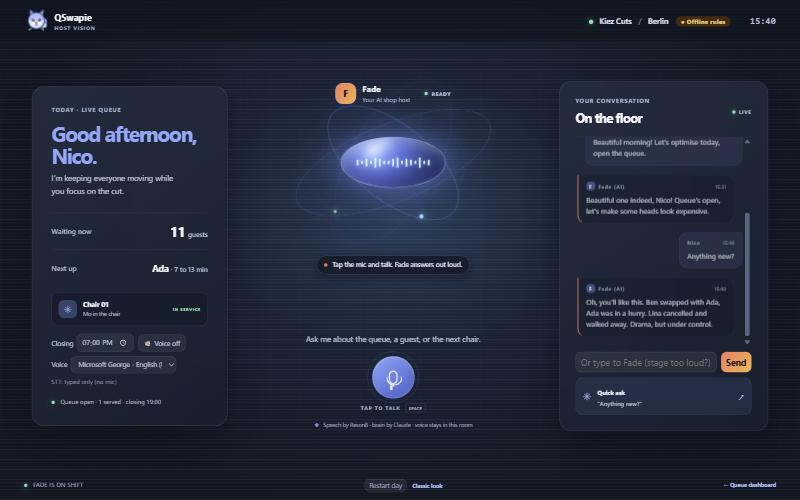
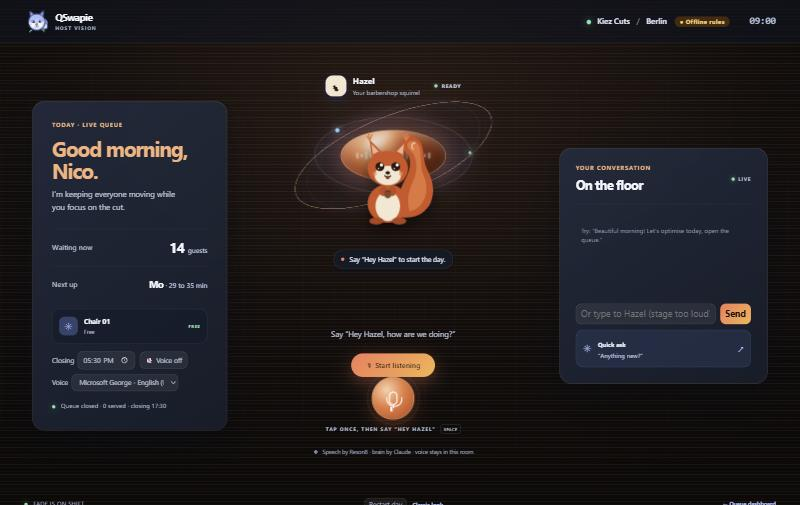
Hazel the squirrel: original SVG on the orb, animated per voice state (breathe, tail swish, head tilt, hop and talk), warm orange/cream palette, reduced-motion support

diff --git a/public/skin/barber.html b/public/skin/barber.html
@@ -8,6 +8,7 @@
   <!-- Stage skin designed with Codex (barber.css, mascot.svg); warm.css adds the warm accent and app controls. -->
   <link rel="stylesheet" href="/skin/barber.css">
   <link rel="stylesheet" href="/skin/warm.css">
+  <link rel="stylesheet" href="/skin/squirrel.css">
 </head>
 <body class="voice-page">
   <div class="voice-app">
@@ -38,12 +39,44 @@
       </aside>
 
       <section class="voice-center" aria-label="Voice conversation with Hazel">
-        <div class="assistant-id"><span class="assistant-avatar">H</span><div><strong>Hazel</strong><small>Your barbershop squirrel</small></div><span class="availability"><i></i> <span id="avail">READY</span></span></div>
+        <div class="assistant-id"><span class="assistant-avatar">🐿</span><div><strong>Hazel</strong><small>Your barbershop squirrel</small></div><span class="availability"><i></i> <span id="avail">READY</span></span></div>
         <div class="core-wrap">
           <div class="voice-core is-idle" id="voiceCore" role="img" aria-label="Hazel is ready to listen">
             <div class="core-grid"></div>
             <div class="core-ring ring-one"></div><div class="core-ring ring-two"></div><div class="core-ring ring-three"></div>
             <div class="core-halo"></div><div class="core-orb"><span class="core-glint"></span></div>
+            <div class="hazel" aria-hidden="true">
+              <!-- Hazel: original squirrel drawing for this project -->
+              <svg viewBox="0 0 200 220" xmlns="http://www.w3.org/2000/svg">
+                <g class="sq-all">
+                  <g class="sq-tail">
+                    <path d="M120 200 C 190 205, 205 140, 180 95 C 162 62, 178 30, 150 18 C 124 8, 108 34, 128 50 C 146 64, 140 92, 128 112 C 112 140, 104 178, 120 200 Z" fill="#d9541e"/>
+                    <path d="M150 26 C 134 22, 126 36, 138 46 C 156 60, 158 92, 146 116 C 136 136, 130 162, 138 186 C 170 180, 186 140, 170 104 C 156 74, 172 40, 150 26 Z" fill="#ef7a3c" opacity=".85"/>
+                    <path d="M150 30 C 142 30, 140 38, 146 44" fill="none" stroke="#f6e7cf" stroke-width="3" stroke-linecap="round" opacity=".7"/>
+                  </g>
+                  <ellipse cx="88" cy="168" rx="46" ry="44" fill="#d9541e"/>
+                  <ellipse cx="88" cy="174" rx="28" ry="34" fill="#f6e7cf"/>
+                  <ellipse cx="62" cy="208" rx="16" ry="8" fill="#b9431a"/>
+                  <ellipse cx="114" cy="208" rx="16" ry="8" fill="#b9431a"/>
+                  <g class="sq-head">
+                    <g class="sq-ear-l"><path d="M52 62 L 46 22 L 74 50 Z" fill="#d9541e"/><path d="M47 24 L 44 8 M 47 24 L 52 10 M 47 24 L 40 14" stroke="#ef7a3c" stroke-width="3" stroke-linecap="round"/><path d="M54 56 L 51 32 L 67 49 Z" fill="#f6b48e"/></g>
+                    <g class="sq-ear-r"><path d="M124 62 L 130 22 L 102 50 Z" fill="#d9541e"/><path d="M129 24 L 132 8 M 129 24 L 124 10 M 129 24 L 136 14" stroke="#ef7a3c" stroke-width="3" stroke-linecap="round"/><path d="M122 56 L 125 32 L 109 49 Z" fill="#f6b48e"/></g>
+                    <ellipse cx="88" cy="88" rx="46" ry="40" fill="#d9541e"/>
+                    <ellipse cx="88" cy="104" rx="30" ry="22" fill="#f6e7cf"/>
+                    <circle cx="70" cy="84" r="10" fill="#2a160c"/><circle cx="106" cy="84" r="10" fill="#2a160c"/>
+                    <circle cx="73.5" cy="80" r="3.6" fill="#fff"/><circle cx="109.5" cy="80" r="3.6" fill="#fff"/>
+                    <circle cx="67" cy="88" r="1.6" fill="#fff" opacity=".8"/><circle cx="103" cy="88" r="1.6" fill="#fff" opacity=".8"/>
+                    <ellipse cx="88" cy="98" rx="5" ry="3.6" fill="#2a160c"/>
+                    <path d="M80 104 Q 88 110 96 104" fill="none" stroke="#2a160c" stroke-width="2.2" stroke-linecap="round"/>
+                    <ellipse class="sq-mouth" cx="88" cy="109" rx="4" ry="2.6" fill="#8a2f10"/>
+                    <circle cx="58" cy="100" r="5" fill="#f2896a" opacity=".55"/><circle cx="118" cy="100" r="5" fill="#f2896a" opacity=".55"/>
+                  </g>
+                  <ellipse cx="78" cy="140" rx="9" ry="11" fill="#c64a19"/>
+                  <ellipse cx="98" cy="140" rx="9" ry="11" fill="#c64a19"/>
+                  <ellipse cx="88" cy="147" rx="8" ry="9" fill="#8a4a24"/><path d="M82 142 Q 88 136 94 142" fill="none" stroke="#5c2d12" stroke-width="2"/>
+                </g>
+              </svg>
+            </div>
             <div class="waveform" aria-hidden="true"><i></i><i></i><i></i><i></i><i></i><i></i><i></i><i></i><i></i><i></i><i></i><i></i><i></i><i></i><i></i><i></i><i></i></div>
           </div>
           <div class="listening-caption"><span class="caption-pip"></span><span id="micState">Ready when you are</span></div>

diff --git a/public/skin/squirrel.css b/public/skin/squirrel.css
@@ -1,0 +1,46 @@
+/* Hazel the squirrel: an original SVG on the orb, animated by the voice state on #voiceCore. Warm orange/cream palette. */
+:root { --nut: #d9541e; --nut-hi: #ef7a3c; --cream: #f6e7cf; --cocoa: #2a160c; }
+
+/* Warm the page: orange/cream accents on dark, text contrast kept high. */
+body.voice-page { background: radial-gradient(1200px 700px at 50% 22%, #2a1a12 0%, #140d0a 55%, #0d0907 100%); }
+.voice-page .core-orb { border-color: #ffd2a8a0; background: radial-gradient(circle at 31% 25%, #ffe2c2 0, #f4a067 16%, #d9541e 42%, #8a2f10 72%, #3d1607 100%);
+  box-shadow: inset -14px -20px 42px #3a12036e, inset 6px 9px 22px #ffe9d066, 0 0 40px #ff7a3a55, 0 0 90px #d9541e3a; }
+.voice-page .core-ring { border-color: #ffb27a55; }
+.voice-page .waveform i { background: var(--cream); }
+.voice-page .panel-kicker, .voice-page .shop-panel h1 span { color: #ffb27a; }
+.voice-page .glass-panel { border-color: #ffb27a33; }
+
+/* The squirrel sits on the orb. */
+.hazel { position: absolute; z-index: 5; left: 50%; top: 26%; width: 40%; transform: translateX(-50%); pointer-events: none; filter: drop-shadow(0 10px 14px #0008); }
+.hazel svg { width: 100%; height: auto; display: block; overflow: visible; }
+.hazel .sq-all, .hazel .sq-tail, .hazel .sq-head, .hazel .sq-ear-l, .hazel .sq-ear-r, .hazel .sq-mouth { transform-box: fill-box; }
+.hazel .sq-tail { transform-origin: 15% 90%; }
+.hazel .sq-head { transform-origin: 50% 85%; }
+.hazel .sq-ear-l, .hazel .sq-ear-r { transform-origin: 50% 100%; }
+.hazel .sq-mouth { transform-origin: 50% 0%; }
+.voice-core .waveform { opacity: .55; }
+
+/* idle: gentle breathing / bob */
+.is-idle .hazel .sq-all { animation: sq-breathe 3.4s ease-in-out infinite; transform-origin: 50% 100%; transform-box: fill-box; }
+/* listening: tail swish + ears up */
+.is-listening .hazel .sq-tail { animation: sq-swish .9s ease-in-out infinite alternate; }
+.is-listening .hazel .sq-ear-l, .is-listening .hazel .sq-ear-r { transform: scaleY(1.18); transition: transform .25s; }
+/* thinking: head tilt + ear twitch */
+.is-thinking .hazel .sq-head { animation: sq-tilt 1.6s ease-in-out infinite; }
+.is-thinking .hazel .sq-ear-r { animation: sq-twitch 1.1s steps(2, end) infinite; }
+/* speaking: small hop + mouth bounce */
+.is-speaking .hazel .sq-all { animation: sq-hop .55s ease-in-out infinite; transform-origin: 50% 100%; transform-box: fill-box; }
+.is-speaking .hazel .sq-mouth { animation: sq-talk .22s ease-in-out infinite alternate; }
+
+@keyframes sq-breathe { 0%,100% { transform: translateY(0) scale(1); } 50% { transform: translateY(-3px) scale(1.015); } }
+@keyframes sq-swish { from { transform: rotate(-6deg); } to { transform: rotate(8deg); } }
+@keyframes sq-tilt { 0%,100% { transform: rotate(0); } 35%,65% { transform: rotate(-11deg); } }
+@keyframes sq-twitch { 0%,80% { transform: rotate(0); } 90% { transform: rotate(14deg); } }
+@keyframes sq-hop { 0%,100% { transform: translateY(0); } 45% { transform: translateY(-9px); } }
+@keyframes sq-talk { from { transform: scaleY(.35); } to { transform: scaleY(1.25); } }
+
+@media (prefers-reduced-motion: reduce) {
+  .hazel *, .hazel .sq-all { animation: none !important; transition: none !important; }
+}
+.voice-page .mic-button { background: radial-gradient(circle at 35% 30%, #ffd2a8, #ef7a3c 45%, #b9431a); border-color: #ffd2a8aa; box-shadow: 0 10px 30px #d9541e66; }
+.voice-page .assistant-avatar { background: #f6e7cf; color: #2a160c; }

diff --git a/README.md b/README.md
@@ -8,7 +8,7 @@ Built at **Agentic AI Hack by Jamie** ({Tech: Europe}, Berlin, 2026-10-24), Open
 
 | Barber voice page (`/barber`) | Queue agent page (`/`) |
 |---|---|
-| ![Hazel, the barber voice sidekick, talking with Nico](docs/img/barber-page.jpg) | ![Live queue, guest phone and agent activity feed](docs/img/queue-page.jpg) |
+| ![Hazel, the barbershop squirrel, ready for Nico](docs/img/barber-page.jpg) | ![Live queue, guest phone and agent activity feed](docs/img/queue-page.jpg) |
 
 *Screenshots in offline mode (no API keys), same live simulation on both pages. The stage look is the default; add `?skin=old` to either URL for the classic look.*
 
@@ -133,7 +133,7 @@ src/server.ts   HTTP server, /api/state, /api/action, /stt WebSocket proxy to Re
 public/index.html   queue page (/ and /guests)
 public/barber.html  barber voice page (/barber)
 public/voice.js     mic capture, Reson8 / Web Speech, speech output, voice picker
-public/skin/        stage skin: barber page with orb, agent-ui.css, mascot.svg, warm.css (default look)
+public/skin/        stage skin: barber page with orb and Hazel the squirrel (squirrel.css, original SVG), agent-ui.css, mascot.svg, warm.css (default look)
 docs/               architecture and API documentation
 pitch/              pitch and submission outlines
 ```
